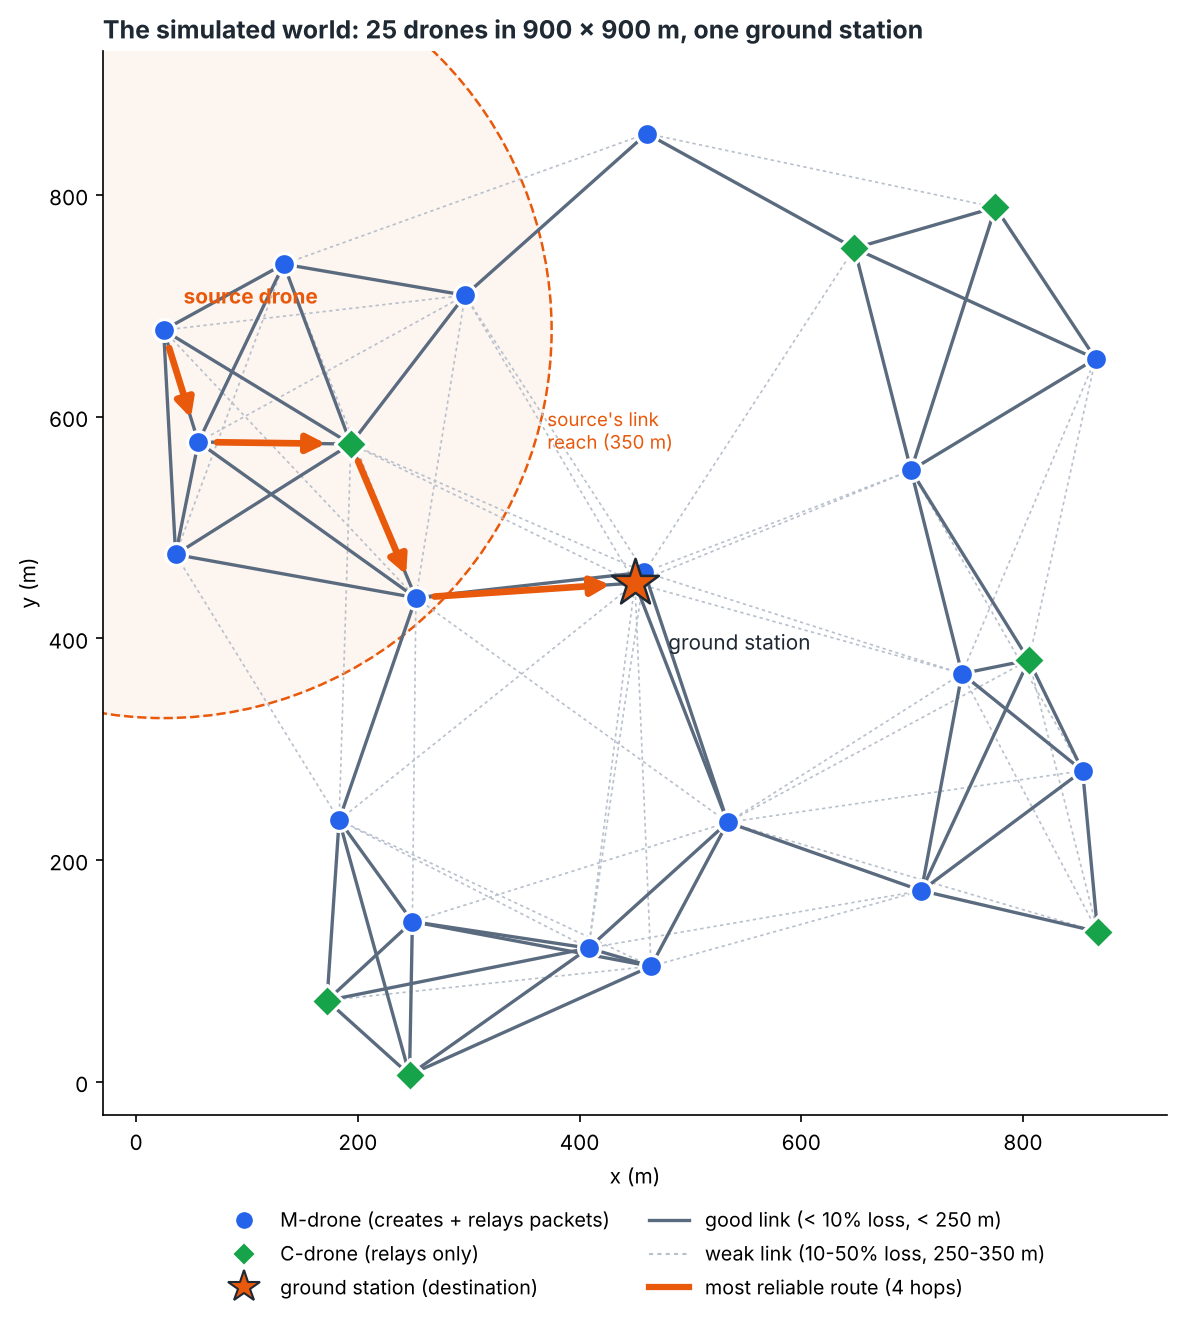
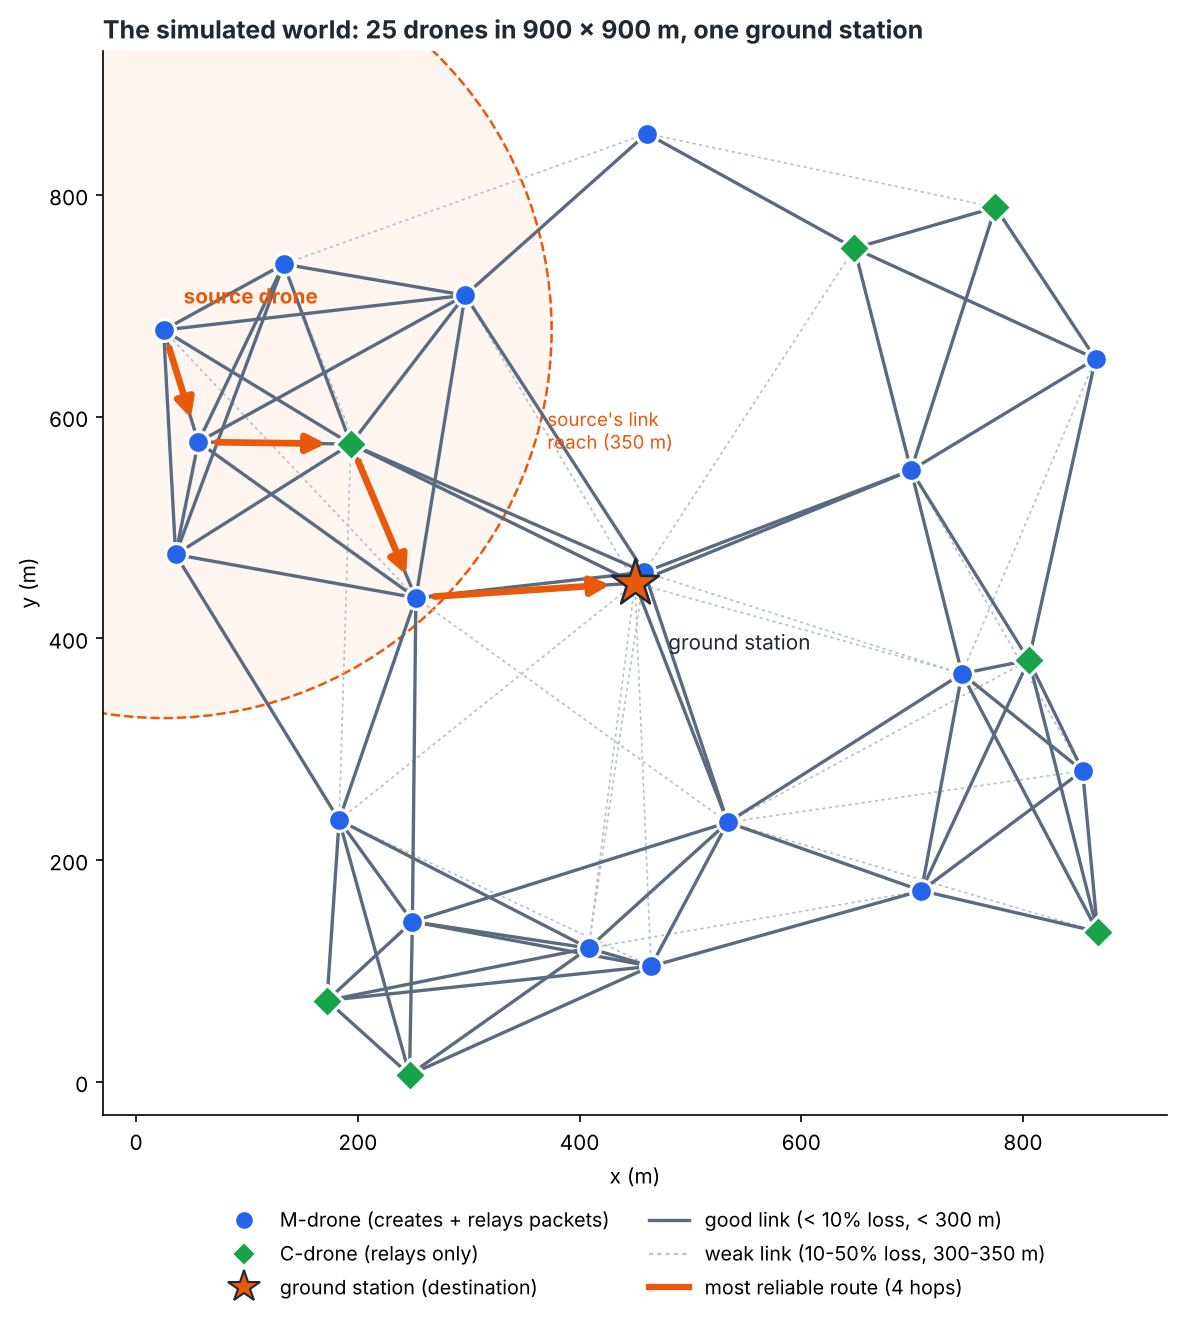
Report: section 4, 7, 8 and 11 on the current curve; new Figure 1
Figure 1 replaced with the supplied drawing, which is built for the current
curve: solid links are under 10% loss (inside 300 m), dotted ones are the
10-50% band out to the 350 m edge, and the circle is the source drone's
reach. The caption is unchanged. No script produces it, so it stays in
report_figures' KEEP list.

Section 4: the sensitivity is -55.6 dBm, the curve is stated as its two
chosen distances (10% at 300 m, 50% at 350 m) with the quick rise over the
last 50 m, the Halperin 2013 cabled-link comparison replaces the old
"gradual rise" wording, and the loss table is <0.01 / 0.03 / 0.8 / 10 / 26 /
50 % at 100 / 200 / 250 / 300 / 325 / 350 m. "Why channel loss is high"
becomes "No resends". Two 175 m hops now lose 0.01%, not 2.2% — computed
0.0051% per hop, 0.0102% over two. Table 1 carries the new sensitivity and
notes that packet size does not affect the loss.

Section 7: greedy's light-load loss is 13.9%, all of it channel; random is
about 64% with 39 points of channel and 19 of hop limit; the 200 ms
justification is now that full queues (14.5%) and the channel (13.8%) cost
about the same, against 0% queue loss at 500 ms and 35.1% at 100 ms.

Section 8: training stopped after 80, 80 and 90 runs, so each network saw 80
to 90 of the 200 training layouts, and the kept versions were saved after
30, 30 and 40 runs.

Section 11: the Halperin entry becomes the 2013 thesis with what it actually
measured.
[…]

diff --git a/docs/report/phase1_report.md b/docs/report/phase1_report.md
@@ -82,24 +82,30 @@ Where:
 - d: distance between the drones
 - P_T: transmit power, 1 W
 - G_T, G_R: antenna gains, 2 dBi
-- S: receiver sensitivity, −54 dBm: the power at which 10% of packets
-  are lost [CITE: 802.11 receiver minimum input sensitivity]
+- S: receiver sensitivity, −55.6 dBm: the power at which 10% of
+  packets are lost [CITE: 802.11 receiver minimum input sensitivity]
 - b: set so that the loss is 50% at 350 m
 
 Real wireless links behave this way: reliable up to some distance,
 then a gradual rise in loss, then no connection [CITE: Zúñiga &
 Krishnamachari 2004].
 
-The curve is set by two distances that we chose: 10% loss at 250 m
-and 50% loss at 350 m. The 350 m comes from the layout scan below. The
-250 m makes the loss rise gradually, at a rate within what has been
-measured on real wireless links [CITE: Halperin 2012]. The radio
-values (1 W, 2.4 GHz, 2 dBi, −54 dBm) are calibration values that
-produce this curve; they do not affect the results.
+The curve is set by two distances that we chose: 10% loss at 300 m
+and 50% loss at 350 m. The 350 m comes from the layout scan below.
+With these two points, links work well for most of their range, and
+the loss rises quickly only in the last 50 m.
 
-| distance | 100 m | 200 m | 250 m | 300 m | 350 m |
-|---|---|---|---|---|---|
-| loss | 0.03% | 2.6% | 10% | 27% | 50% |
+A similar quick rise was measured on a real Wi-Fi link connected by
+cable, where the signal is steady [CITE: Halperin 2013]. In the open
+air the signal changes from moment to moment, so the rise is slower.
+We do not model these changes.
+
+The radio values (1 W, 2.4 GHz, 2 dBi, −55.6 dBm) are calibration
+values that produce this curve; they do not affect the results.
+
+| distance | 100 m | 200 m | 250 m | 300 m | 325 m | 350 m |
+|---|---|---|---|---|---|---|
+| loss | <0.01% | 0.03% | 0.8% | 10% | 26% | 50% |
 <!-- source: rl_sim/fanet_sim/envs/channel.py (p_loss); rl_sim/fanet_sim/config.py -->
 
 ![Loss against distance](figures/ploss_curve.png)
@@ -107,11 +113,10 @@ produce this curve; they do not affect the results.
 **Figure 2:** Loss per transmission as a function of distance. Beyond
 350 m a drone does not accept the other as a neighbour.
 
-**Why channel loss is high:** a lost transmission is not resent, so
-one lost hop loses the packet. Links can lose up to 50%, and with 25
-drones in 900×900 m some drones have only long links. Real Wi-Fi
-resends lost packets, so its loss would be much lower. Adding resends
-is left for later.
+**No resends:** a lost transmission is not resent, so one lost hop
+loses the packet. Links up to 350 m are allowed, and the last 50 m
+lose 10–50%. Real Wi-Fi resends lost packets, so a real network
+would lose fewer packets on the channel.
 
 **Links and range**
 
@@ -121,8 +126,8 @@ choice; real routing protocols such as OLSR also use link-quality
 thresholds for their neighbours [CITE: RFC 3626]. With our loss curve,
 the loss reaches 50% at 350 m, so drones more than 350 m apart are not
 neighbours. A link losing more than half its packets is rarely useful:
-two 175 m hops lose only 2.2%, while one 350 m hop loses 50%.
-<!-- source: rl_sim/fanet_sim/envs/channel.py (p_loss): 1.0882% at 175 m, so 2.1646% over two hops; 50.0000% at 350 m -->
+two 175 m hops lose only 0.01%, while one 350 m hop loses 50%.
+<!-- source: rl_sim/fanet_sim/envs/channel.py (p_loss): 0.0051% at 175 m, so 0.0102% over two hops; 50.0000% at 350 m -->
 
 We chose 350 m by testing several ranges on 3000 random layouts:
 
@@ -239,7 +244,7 @@ reproduced from its random seeds.
 | transmit power | 1 W |
 | frequency | 2.4 GHz |
 | antenna gain | 2 dBi |
-| receiver sensitivity | −54 dBm (10% loss at 250 m) |
+| receiver sensitivity | −55.6 dBm (10% loss at 300 m) |
 | link range | 350 m (50% loss) |
 | queue size | 10 packets per link |
 | sends per queue per step | 1 |
@@ -248,7 +253,7 @@ reproduced from its random seeds.
 | packet rate per M-drone | 1 every 200 ms (also tested: 1000, 500, 100 ms) |
 | packet lifetime | 5 s |
 | max hops | 10 |
-| packet size | 512 bytes |
+| packet size | 512 bytes (does not affect the loss) |
 
 **Table 1:** Simulation parameters.
 <!-- source: rl_sim/fanet_sim/config.py -->
@@ -293,22 +298,23 @@ Figure 3 shows the total loss and its causes.
 at each load (mean over 20 layouts, standard deviation in brackets).
 
 Greedy loses much less than random at every load, on all 20 layouts.
-At light loads almost all of greedy's loss is on the channel (24.6%),
+At light loads all of greedy's loss is on the channel (13.9%),
 because it takes few, long hops. As the load grows, its queues fill
 up.
 
-Random loses about 74% at every load. It does not move towards the
-GS, so packets take many hops and most are lost on the channel along
-the way (61%). Its queues never fill up, so the load does not matter.
+Random loses about 64% at every load. It does not move towards the
+GS, so packets take many hops: many are lost on the channel (39%),
+and many use up all 10 hops (19%). Its queues almost never fill up,
+so the load does not matter.
 <!-- source: rl_sim/out/1a_summary.csv -->
 
 **Choosing the main load**
 
-We use 200 ms as the main load for the rest of the project:
-- **Busy:** at 200 ms, 10.3% of greedy's packets are lost to full
-  queues, so the routing choice matters.
-- **Channel still the main cause:** 24.6% of greedy's packets are lost
-  on the channel. At 100 ms, full queues become the main cause (29.0%).
+We use 200 ms as the main load for the rest of the project. At this
+load, greedy loses about as many packets to full queues (14.5%) as on
+the channel (13.8%), so the routing has to deal with both. At 500 ms
+no packets are lost to full queues, and at 100 ms full queues are the
+main cause of loss (35.1%).
 <!-- source: rl_sim/out/1a_summary.csv, rl_sim/out/1a_paired.csv -->
 
 ---
@@ -387,15 +393,20 @@ on layouts it learned from:
 
 | set | layouts |
 |---|---|
-| training | 200 |
+| training | 200 available, one new layout per run |
 | validation | 10 |
 | test | 50 |
 
-Each training run uses one layout at 200 ms. Every 10 runs we test the
-network on the validation layouts. We save this version only if its
-loss is at least 0.5% lower than the best version so far (for example,
-from 22.2% to 21.7%). Training stops when the network has not improved
-for 5 checks in a row.
+Each training run uses one training layout at 200 ms. Every 10 runs
+we test the network on the validation layouts. We save this version
+only if its loss is at least 0.5% lower than the best version so far
+(for example, from 8.6% to 8.1%). Training stops when the network has
+not improved for 5 checks in a row.
+
+Training stopped after 80, 80 and 90 runs, so each network used only
+80 to 90 of the 200 training layouts. The versions we kept were saved
+after 30, 30 and 40 runs.
+<!-- source: rl_sim/out/1b_training_log.csv, rl_sim/out/1b_eval_log.csv -->
 
 We trained three networks, each starting from different random
 weights, to check that the result does not depend on luck.
@@ -481,8 +492,9 @@ Running list of citations still needed:
   Cited in section 4.
 - [CITE: RFC 3626] — OLSR, as an example of a routing protocol that uses
   link-quality thresholds for its neighbours. Cited in section 4.
-- [CITE: Halperin 2012] — arXiv:1301.6644, the measured width of the loss
-  transition on real wireless links. Cited in section 4.
+- [CITE: Halperin 2013] — D. Halperin, PhD thesis, arXiv:1301.6644.
+  The rise from lossy to reliable takes 2–4 dB on a cabled link and
+  10 dB or more over the air. Cited in section 4.
 - [CITE: BGP AS_PATH] — the standard precedent for carrying a visited-list in
   the packet header. Cited in section 4.
 -->
